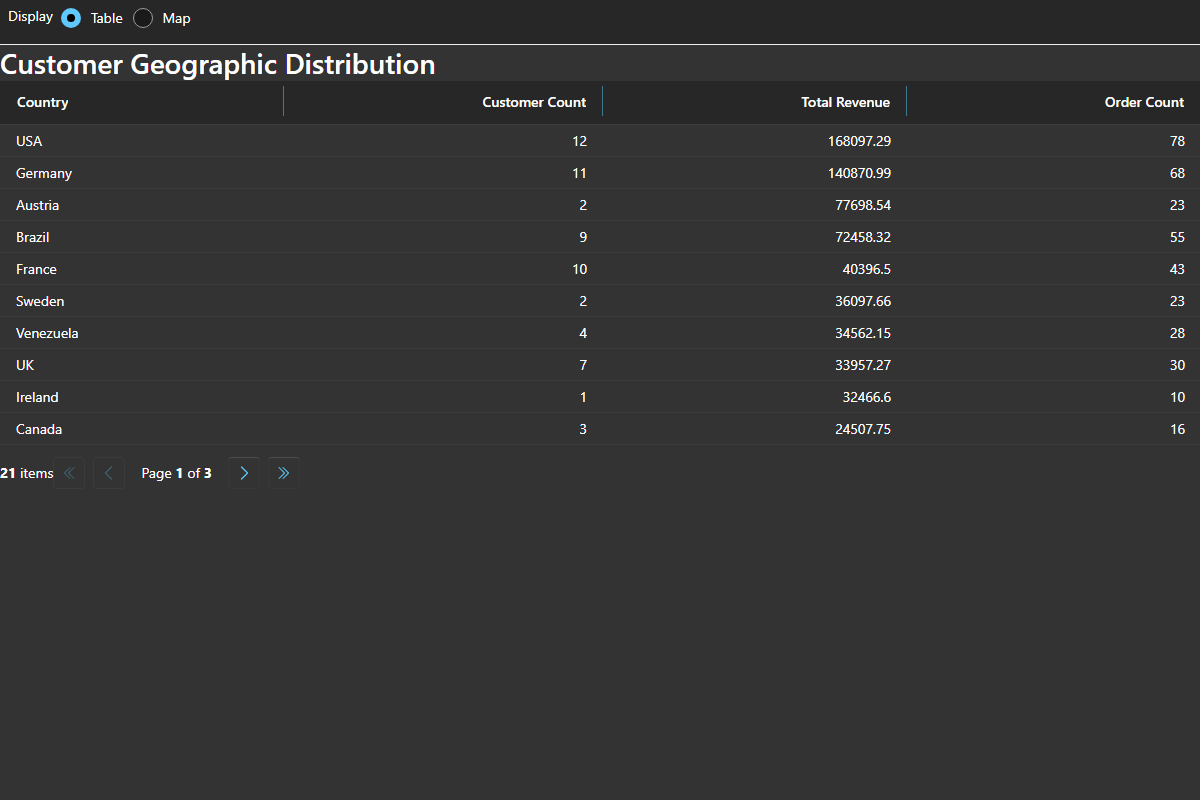
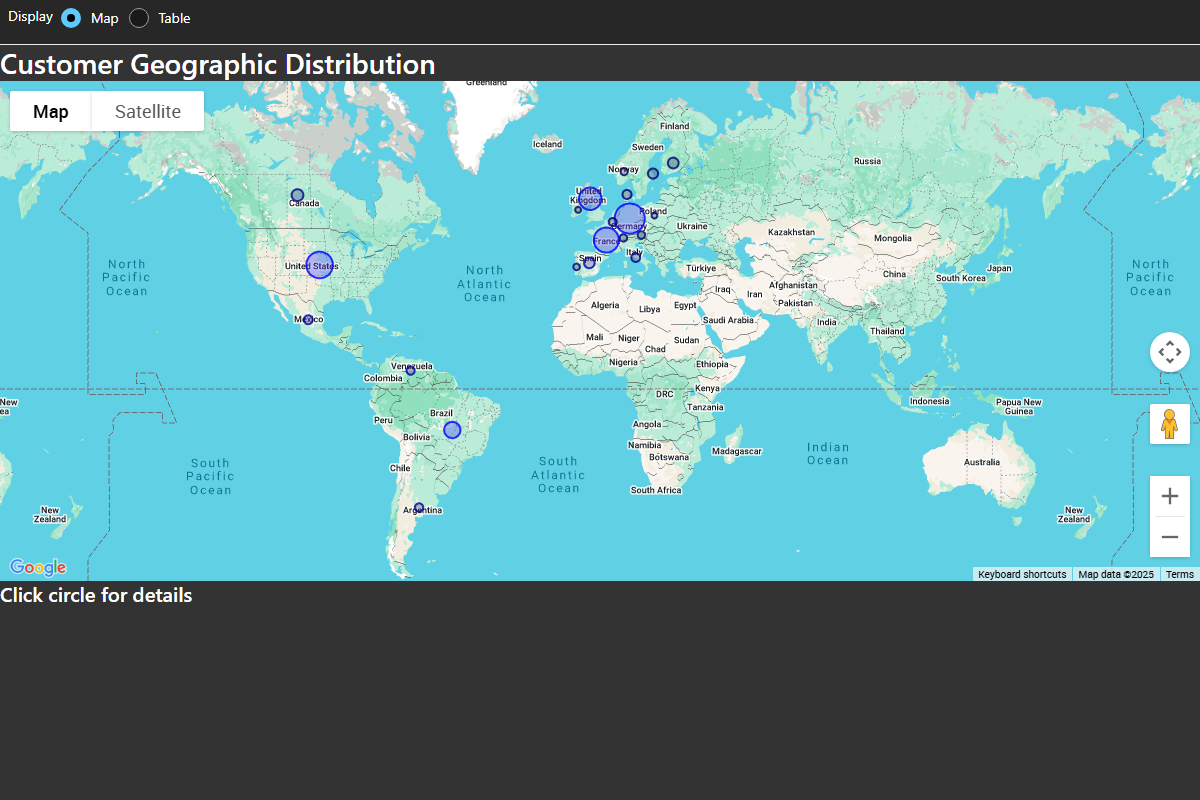
Implementing details on google maps

diff --git a/modules/Northwind/MeshWeaver.Northwind.Application/CustomerAnalysisArea.cs b/modules/Northwind/MeshWeaver.Northwind.Application/CustomerAnalysisArea.cs
@@ -1,4 +1,5 @@
 using System.Reactive.Linq;
+using MeshWeaver.Data;
 using MeshWeaver.GoogleMaps;
 using MeshWeaver.Layout;
 using MeshWeaver.Layout.Composition;
@@ -343,12 +344,13 @@ public static class CustomerAnalysisArea
         public const string Map = nameof(Map);
         public const string Table = nameof(Table);
 
-        [UiControl<RadioGroupControl>(Options = new[] { "Table", "Map" })]
-        public string Display { get; init; } = Table;
+        [UiControl<RadioGroupControl>(Options = new[] {  Map, Table })]
+        public string Display { get; init; } = Map;
     }
 
     /// <summary>
-    /// Gets the customer geographic distribution.
+    /// Gets the customer geographic distribution. Outputs Revenues and customer count by geography.
+    /// Represents data in a table or a map.
     /// </summary>
     /// <param name="host">The layout area host.</param>
     /// <param name="context">The rendering context.</param>
@@ -356,10 +358,10 @@ public static class CustomerAnalysisArea
     public static UiControl? CustomerGeographicDistribution(this LayoutAreaHost host, RenderingContext context)
     {
         return host.Toolbar(new CustomerGeographicToolbar(),
-            (toolbar, area, _) => toolbar.Display switch
+            (toolbar, _, _) => toolbar.Display switch
             {
-                CustomerGeographicToolbar.Map => area.CustomerGeographicMap(),
-                _ => area.CustomerGeographicTable()
+                CustomerGeographicToolbar.Map => CustomerGeographicMap(),
+                _ => CustomerGeographicTable()
             }
         );
     }
@@ -369,56 +371,53 @@ public static class CustomerAnalysisArea
     /// </summary>
     /// <param name="host">The layout area host.</param>
     /// <returns>An observable sequence of UI controls representing customer geographic table.</returns>
-    private static IObservable<UiControl> CustomerGeographicTable(this LayoutAreaHost host)
-        => host.GetDataCube()
-            .SelectMany(data =>
-            {
-                var countryData = data.Where(x => !string.IsNullOrEmpty(x.ShipCountry))
-                    .GroupBy(x => x.ShipCountry)
-                    .Select(g => new
-                    {
-                        Country = g.Key!,
-                        CustomerCount = g.Select(x => x.Customer).Distinct().Count(),
-                        TotalRevenue = Math.Round(g.Sum(x => x.Amount), 2),
-                        OrderCount = g.DistinctBy(x => x.OrderId).Count()
-                    })
-                    .OrderByDescending(x => x.TotalRevenue)
-                    .ToArray();
+    private static UiControl CustomerGeographicTable()
+        => Controls.Stack
+            .WithView(Controls.H2("Customer Geographic Distribution"))
+            .WithView((host,_) => host.GetDataCube()
+                .Select(data =>
+                {
+                    var countryData = data.Where(x => !string.IsNullOrEmpty(x.ShipCountry))
+                        .GroupBy(x => x.ShipCountry)
+                        .Select(g => new CustomerGeographicData
+                        {
+                            Country = g.Key!,
+                            CustomerCount = g.Select(x => x.Customer).Distinct().Count(),
+                            TotalRevenue = Math.Round(g.Sum(x => x.Amount), 2),
+                            OrderCount = g.DistinctBy(x => x.OrderId).Count()
+                        })
+                        .OrderByDescending(x => x.TotalRevenue)
+                        .ToArray();
 
-                return Observable.Return(
-                    Controls.Stack
-                        .WithView(Controls.H2("Customer Geographic Distribution"))
-                        .WithView(host.ToDataGrid(countryData))
-                );
-            });
+                    return host.ToDataGrid(countryData);
+                }));
 
     /// <summary>
     /// Gets the map view for customer geographic data.
     /// </summary>
     /// <param name="host">The layout area host.</param>
     /// <returns>An observable sequence of UI controls representing customer geographic map.</returns>
-    private static IObservable<UiControl> CustomerGeographicMap(this LayoutAreaHost host)
-        => host.GetDataCube()
-            .SelectMany(data =>
-            {
-                var countryData = data.Where(x => !string.IsNullOrEmpty(x.ShipCountry))
-                    .GroupBy(x => x.ShipCountry)
-                    .Select(g => new
-                    {
-                        Country = g.Key!,
-                        CustomerCount = g.Select(x => x.Customer).Distinct().Count(),
-                        TotalRevenue = Math.Round(g.Sum(x => x.Amount), 2),
-                        OrderCount = g.DistinctBy(x => x.OrderId).Count()
-                    })
-                    .OrderByDescending(x => x.TotalRevenue)
-                    .ToArray();
+    private static UiControl CustomerGeographicMap()
+        => Controls.Stack
+            .WithWidth("100%")
+            .WithView(Controls.H2("Customer Geographic Distribution"))
+            .WithView((host, ctx) => host.GetDataCube()
+                .Select(data =>
+                {
+                    var countryData = data.Where(x => !string.IsNullOrEmpty(x.ShipCountry))
+                        .GroupBy(x => x.ShipCountry)
+                        .Select(g => new CustomerGeographicData
+                        {
+                            Country = g.Key!,
+                            CustomerCount = g.Select(x => x.Customer).Distinct().Count(),
+                            TotalRevenue = Math.Round(g.Sum(x => x.Amount), 2),
+                            OrderCount = g.DistinctBy(x => x.OrderId).Count()
+                        })
+                        .OrderByDescending(x => x.TotalRevenue)
+                        .ToArray();
+                    return CreateCustomerMapWithDetails(host, countryData);
+                }));
 
-                return Observable.Return(
-                    Controls.Stack
-                        .WithView(Controls.H2("Customer Geographic Distribution"))
-                        .WithView(CreateCustomerMap(countryData))
-                );
-            });
 
     /// <summary>
     /// Gets the customer purchase behavior analysis.
@@ -462,7 +461,50 @@ public static class CustomerAnalysisArea
                 ;
             });
 
-    private static UiControl CreateCustomerMap(object[] countryData)
+    private record CustomerGeographicData
+    {
+        public required string Country { get; init; }
+        public required int CustomerCount { get; init; }
+        public required double TotalRevenue { get; init; }
+        public required int OrderCount { get; init; }
+    }
+
+    private static UiControl CreateCustomerMapWithDetails(LayoutAreaHost host, CustomerGeographicData[] countryData)
+    {
+        const string CustomerDetails = nameof(CustomerDetails);
+        return Controls.Stack
+            .WithWidth("100%")
+            .WithView(CreateCustomerMapControl(countryData)
+            .WithClickAction(context =>
+            {
+                var selectedCountryId = context.Payload?.ToString();
+                if (selectedCountryId == null)
+                    return;
+                var selectedCountry = countryData.FirstOrDefault(cd => cd.Country == selectedCountryId);
+                if (selectedCountry is null)
+                    return;
+                // Replace last segment of context.Area with "CustomerDetails"
+                var areaSegments = context.Area.Split('/');
+                if (areaSegments.Length > 0)
+                    areaSegments[^1] = CustomerDetails;
+                var customerDetailArea = string.Join('/', areaSegments);
+                host.UpdateArea(customerDetailArea, 
+                    Controls.Markdown($"""
+                                      ## {selectedCountry.Country} Customer Details
+                                      
+                                      | Metric | Value |
+                                      |--------|-------|
+                                      | Customer Count | {selectedCountry.CustomerCount:N0} |
+                                      | Total Revenue | ${selectedCountry.TotalRevenue:N2} |
+                                      | Order Count | {selectedCountry.OrderCount:N0} |
+                                      | Average Revenue per Customer | ${selectedCountry.TotalRevenue / Math.Max(selectedCountry.CustomerCount, 1):N2} |
+                                      | Average Revenue per Order | ${selectedCountry.TotalRevenue / Math.Max(selectedCountry.OrderCount, 1):N2} |
+                                      """));
+            }))
+            .WithView(Controls.H4("Click circle for details"), CustomerDetails);
+    }
+
+    private static UiControl CreateCustomerMapControl(CustomerGeographicData[] countryData)
     {
         // Country coordinates mapping (major countries from Northwind)
         var countryCoordinates = new Dictionary<string, LatLng>
@@ -492,26 +534,18 @@ public static class CustomerAnalysisArea
         };
 
         var circles = new List<MapCircle>();
-        var validCountries = new List<dynamic>();
         
         // Calculate max customer count for proportional sizing
-        var maxCustomerCount = countryData.Max(c => 
-            Convert.ToInt32(c.GetType().GetProperty("CustomerCount")?.GetValue(c) ?? 0));
+        var maxCustomerCount = countryData.Max(c => c.CustomerCount);
         var minRadius = 40000; // 40km minimum
         var maxRadius = 400000; // 400km maximum
         
         foreach (var country in countryData)
-        {
-            var countryName = country.GetType().GetProperty("Country")?.GetValue(country)?.ToString() ?? "";
-            var customerCount = Convert.ToInt32(country.GetType().GetProperty("CustomerCount")?.GetValue(country) ?? 0);
-            var revenue = Convert.ToDouble(country.GetType().GetProperty("TotalRevenue")?.GetValue(country) ?? 0);
-            
-            if (countryCoordinates.TryGetValue(countryName, out var coordinates))
+        {            
+            if (countryCoordinates.TryGetValue(country.Country, out var coordinates))
             {
-                validCountries.Add(country);
-                
                 // Calculate proportional radius based on customer count
-                var customerRatio = maxCustomerCount > 0 ? (double)customerCount / maxCustomerCount : 0;
+                var customerRatio = maxCustomerCount > 0 ? (double)country.CustomerCount / maxCustomerCount : 0;
                 var radius = minRadius + (maxRadius - minRadius) * customerRatio;
                 
                 // Color intensity based on customer count (darker blue = more customers)
@@ -529,7 +563,7 @@ public static class CustomerAnalysisArea
                     StrokeColor = strokeColor,
                     StrokeOpacity = 0.8,
                     StrokeWeight = 2,
-                    Id = countryName,
+                    Id = country.Country,
                     Data = country
                 });
             }

diff --git a/modules/Northwind/MeshWeaver.Northwind.Application/SalesGeographyArea.cs b/modules/Northwind/MeshWeaver.Northwind.Application/SalesGeographyArea.cs
@@ -167,7 +167,7 @@ public static class SalesGeographyArea
                     Controls.Stack
                         .WithView(Controls.H2("Global Sales Distribution"))
                         .WithView(
-                            CreateSalesMap(countryData)
+                            CreateSalesMapWithDetails(layoutArea, countryData)
                         )
                         .WithStyle(style => style.WithWidth("100%"))
                 );
@@ -180,7 +180,42 @@ public static class SalesGeographyArea
         public required int CustomerCount { get; init; }
         public required int OrderCount { get; init; }
     }
-    private static UiControl CreateSalesMap(CountryData[] countryData)
+    private static UiControl CreateSalesMapWithDetails(LayoutAreaHost host, CountryData[] countryData)
+    {
+        const string SalesDetails = nameof(SalesDetails);
+        return Controls.Stack
+            .WithWidth("100%")
+            .WithView(CreateSalesMapControl(countryData)
+            .WithClickAction(context =>
+            {
+                var selectedCountryId = context.Payload?.ToString();
+                if (selectedCountryId == null)
+                    return;
+                var selectedCountry = countryData.FirstOrDefault(cd => cd.Country == selectedCountryId);
+                if (selectedCountry is null)
+                    return;
+                // Replace last segment of context.Area with "SalesDetail"
+                var areaSegments = context.Area.Split('/');
+                if (areaSegments.Length > 0)
+                    areaSegments[^1] = SalesDetails;
+                var salesDetailArea = string.Join('/', areaSegments);
+                host.UpdateArea(salesDetailArea, 
+                    Controls.Markdown($"""
+                                      ## {selectedCountry.Country} Sales Details
+                                      
+                                      | Metric | Value |
+                                      |--------|-------|
+                                      | Total Revenue | ${selectedCountry.TotalRevenue:N2} |
+                                      | Customer Count | {selectedCountry.CustomerCount:N0} |
+                                      | Order Count | {selectedCountry.OrderCount:N0} |
+                                      | Average Revenue per Customer | ${selectedCountry.TotalRevenue / Math.Max(selectedCountry.CustomerCount, 1):N2} |
+                                      | Average Revenue per Order | ${selectedCountry.TotalRevenue / Math.Max(selectedCountry.OrderCount, 1):N2} |
+                                      """));
+            }))
+            .WithView(Controls.H4("Click circle for details"), SalesDetails);
+    }
+
+    private static UiControl CreateSalesMapControl(CountryData[] countryData)
     {
         // Country coordinates mapping (major countries from Northwind)
         var countryCoordinates = new Dictionary<string, LatLng>
@@ -210,7 +245,6 @@ public static class SalesGeographyArea
         };
 
         var circles = new List<MapCircle>();
-        var validCountries = new List<dynamic>();
         
         // Calculate max revenue for proportional sizing
         var maxRevenue = countryData.Max(c => c.TotalRevenue);
@@ -221,8 +255,6 @@ public static class SalesGeographyArea
         {
             if (countryCoordinates.TryGetValue(country.Country, out var coordinates))
             {
-                validCountries.Add(country);
-                
                 // Calculate proportional radius based on revenue
                 var revenueRatio = country.TotalRevenue / maxRevenue;
                 var radius = minRadius + (maxRadius - minRadius) * revenueRatio;
